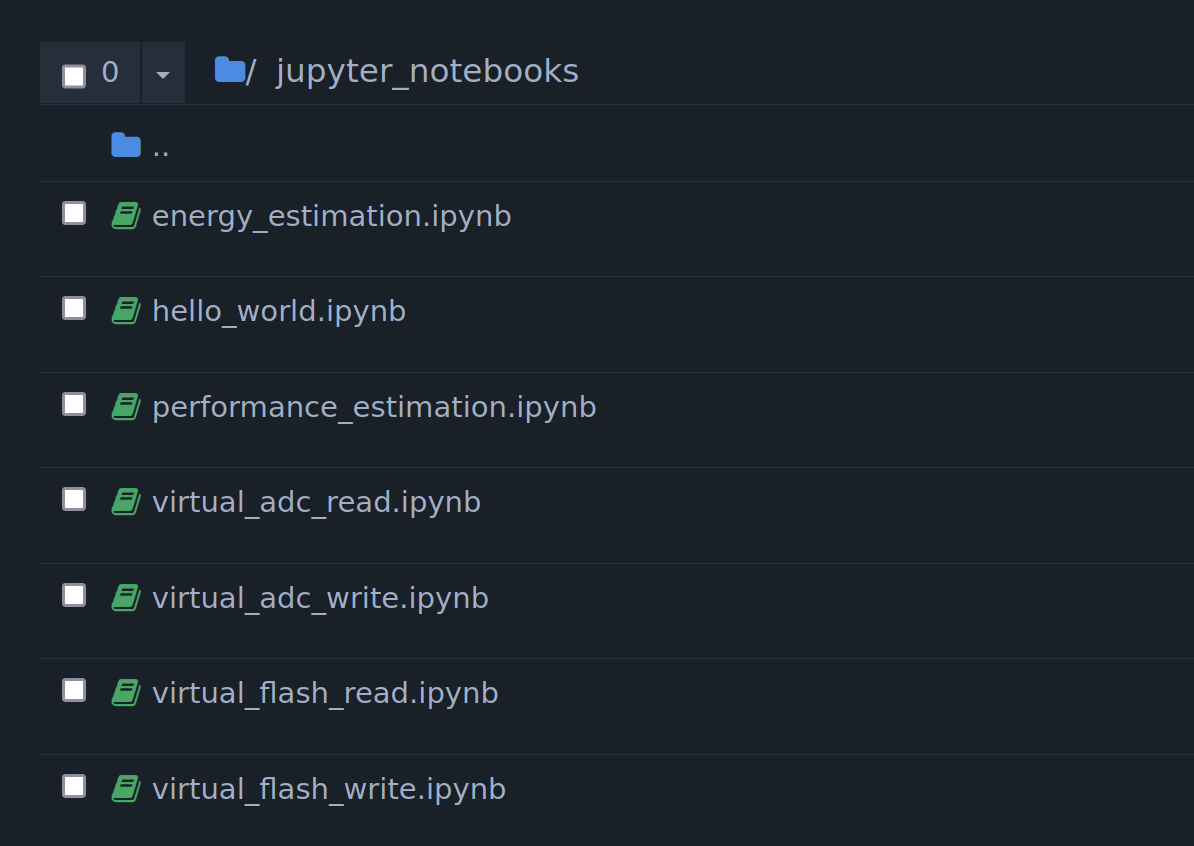
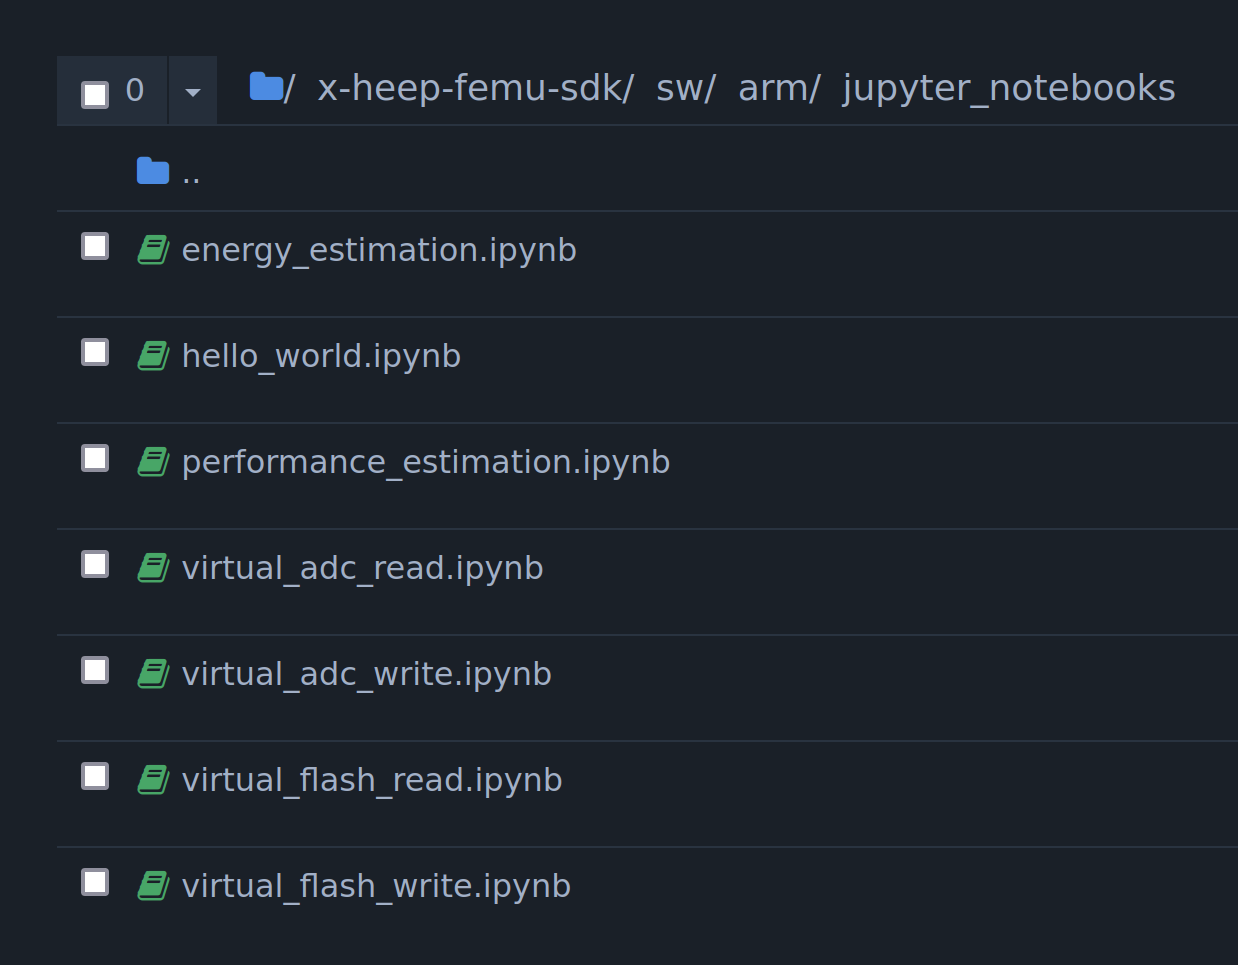
Updated documentation.

diff --git a/docs/source/sd_image.rst b/docs/source/sd_image.rst
@@ -1,9 +1,9 @@
 SD image
 ========
 
-This section describes the structure and content of our pre-compiled `MicroSD image <http://tiny.cc/femu_microsd_image>`_.
+This section describes our pre-compiled `MicroSD image <http://tiny.cc/femu_microsd_image>`_.
 
-Our image automatically loads the X-HEEP bitstream and performs the required initializations after booting the operating system. All the tools you need to interact with X-HEEP (implemented on the PL side of the chip) from Linux (running on the PS side of the chip) are already pre-installed on the image.
+Our image automatically performs the required initializations after booting the operating system. All the tools you need to interact with X-HEEP (implemented on the PL side of the chip) from Linux (running on the PS side of the chip) are already pre-installed on the image.
 
 The most important tools are:
 
@@ -11,46 +11,3 @@ The most important tools are:
 - ``OpenOCD`` to load the binary to the X-HEEP main memory and run it.
 - ``GNU Debugger (GDB)`` to connect to OpenOCD and debug your application.
 - ``Screen`` to display the stdout of the application running on X-HEEP.
-- ``X-HEEP Python class`` to use all the platform's features with a dedicated API.
-
-The home directory of our image presents the following structure:
-
-| ~
-| ├── jupyter_notebooks
-| ├── x_heep
-| │    ├── init.sh
-| │    ├── hw
-| │    │   ├── x_heep.bit
-| │    │   └── x_heep.hwh
-| │    └── sw
-| │        ├── riscv
-| │        │    ├── apps
-| │        │    ├── lib
-| │        │    ├── link
-| │        │    ├── pwr_val
-| │        │    └── Makefile
-| │        └── arm
-| │             ├── apps
-| │             ├── sdk
-| │             └── tools
-|
-
-In the folder structure above:
-
-- ``jupyter-notebooks`` contains notebooks that you can use to run our sample applications.
-- ``x_heep`` stores the hardware and software of our platform.
-- ``init.sh`` is used to initialize the environment.
-- ``hw`` contains the hardware of our platform.
-- ``x_heep.bit`` is the bitstream file.
-- ``x_heep.hwh`` is the hardware configuration file.
-- ``sw`` contains the software of our platform.
-- ``riscv`` contains the software tools to compile the RISC-V application that runs on X-HEEP.
-- ``apps`` stores our sample C applications.
-- ``lib`` stores the needed hardware abstraction layer (HAL).
-- ``link`` stores the linker script.
-- ``pwr_val`` stores the power values for our energy model.
-- ``Makefile`` is the Makefile used to compile our RISC-V applications.
-- ``arm`` contains the software components needed to use our X-HEEP Python class.
-- ``apps`` stores our sample Python applications.
-- ``sdk`` stores our X-HEEP Python class.
-- ``tools`` stores the needed tools to interact with X-HEEP.

diff --git a/docs/source/hardware/x_heep.rst b/docs/source/hardware/x_heep.rst
@@ -50,7 +50,7 @@ The following image shows the block diagram of the ASIC implementation of X-HEEP
 
 In addition to the already mentioned peripherals, we added a pad ring, a pad controller, a frequency-locked loop (FLL), and an MCU controller. Then, we synthesised and placed and routed the design with ``TSMC 65nm CMOS technology`` and two flavours of cells: low-voltage threshold (LVT) and high-voltage threshold (HVT). The former is high-performance but high-power, while the latter is low-power but low-performance.
 
-We simulated our design with dedicated test applications storing the switching activity file. Then, we performed a detailed power analysis to extract the leakage and average dynamic power of each IP in the architecture. These values are stored in two CSV files, called ``TSMC_65nm_LVT_20MHz.csv`` and ``TSMC_65nm_HVT_20MHz.csv``, located in the folder ``~/x_heep/sw/riscv/pwr_val``.
+We simulated our design with dedicated test applications storing the switching activity file. Then, we performed a detailed power analysis to extract the leakage and average dynamic power of each IP in the architecture. These values are stored in two CSV files, called ``TSMC_65nm_LVT_20MHz.csv`` and ``TSMC_65nm_HVT_20MHz.csv``, located in the folder ``~/x-heep-femu-sdk/sw/riscv/pwr_val``.
 
 .. warning::
 

diff --git a/docs/source/getting_started.rst b/docs/source/getting_started.rst
@@ -14,7 +14,7 @@ Jupyter notebook
 
 Connect to Linux, running on the board, using your Web browser and follow these steps.
 
-Click on ``jupyter_notebooks``:
+Navigate to ``arm`` and click on ``jupyter_notebooks``:
 
 .. image:: ./images/jupyter_1.png
   :width: 400
@@ -39,11 +39,11 @@ Python script
 
 Connect to Linux, running on the board, using SSH from your terminal and follow these steps.
 
-Enter the X-HEEP folder:
+Enter the X-HEEP FEMU SDK folder:
 
 .. code-block:: console
 
-    cd x_heep/
+    cd x-heep-femu-sdk/
 
 Run sudo:
 
@@ -82,11 +82,11 @@ Python shell
 
 Connect to Linux, running on the board, using SSH from your terminal and follow these steps.
 
-Enter the ``x_heep/`` folder:
+Enter the X-HEEP FEMU SDK folder:
 
 .. code-block:: console
 
-    cd x_heep
+    cd x-heep-femu-sdk/
 
 Run sudo:
 
